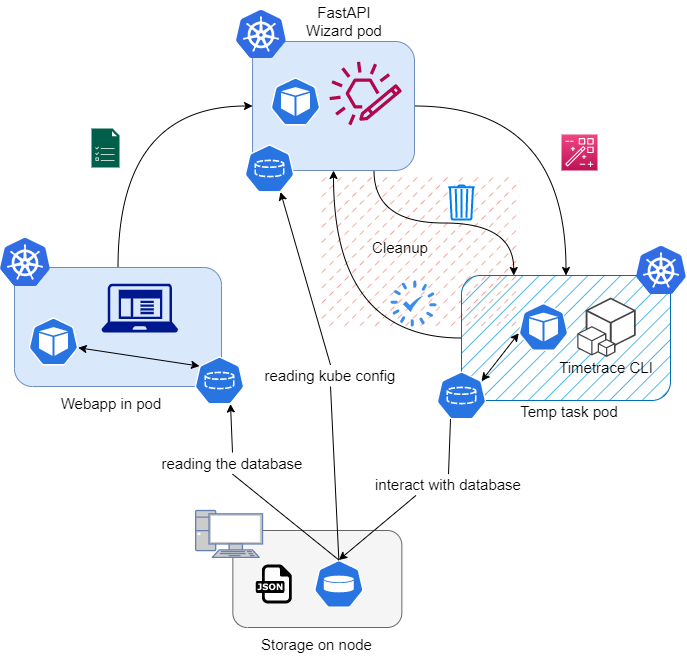
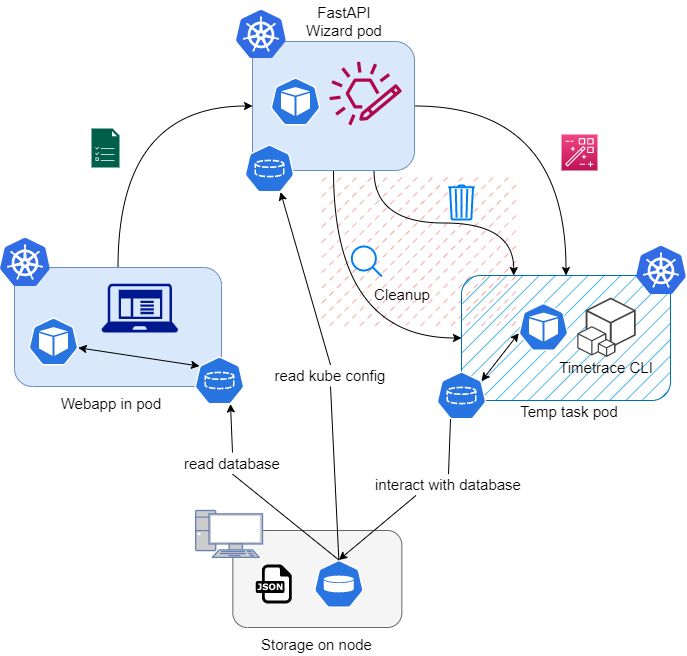
architecture schema fix

Changed region(s): [[0.4891, 0.3354, 0.6725, 0.5183], [0.3974, 0.5488, 0.5808, 0.5793], [0.2445, 0.7012, 0.4279, 0.7317]]

diff --git a/wizard/app.py b/wizard/app.py
@@ -1,6 +1,7 @@
 import subprocess
 import logging
 import yaml
+import time
 from fastapi import FastAPI, HTTPException
 from pydantic import BaseModel
 
@@ -24,42 +25,31 @@ async def creation(message: Message):
     if "create_pod," in message.text.lower():
         logging.info(f"Recieved following message: {message}")
         receipt = message.split(",")
-        #  collect deployment info to inject it in yaml file
-        #+ for sending the message after task complete
-        deployment_info = collect_deployment_info()
-        #  template yaml file update with received instructions and
-        #+ deployment info (service where FastAPI is listening)
-        inject_receipt_to_yaml(receipt[1:], deployment_info)
-        logging.info(f"Commands injected: {[receipt[i] for i in range(2,len(receipt))]}")
+        #  template yaml file update with received instructions 
+        inject_receipt_to_yaml(receipt[1:])
+        logging.info(f"Commands injected: {[receipt[i] for i in range(2,len(receipt))]} to start pod {receipt[1]}")
         # applying updated yaml template
         kubectl_apply()
-        logging.info(f"Pod {receipt[1]} created: {message}")
+        logging.info(f"Pod {receipt[1]} created!")
+        clean(receipt[1])
+        logging.info(f"Pod {receipt[1]} deleted!")
     else:
         # raise an exception for unknown messages
         raise HTTPException(status_code=400, detail="Unknown message")
 
-@app.post("/terminate_pod")
-async def termination(message: Message):
-    if "terminate_pod," in message.text.lower():
-        logging.info(f"Recieved following message: {message}")
-        # parsing pod name from message and calling delete method
-        kubectl_delete(message.split(",")[1])
-        logging.info(f"Pod {message.split(',')[1]} deleted")
-    else:
-        # raise an exception for unknown messages
-        raise HTTPException(status_code=400, detail="Unknown message")
+def clean(pod_name):
+    while True:
+        svc_raw = subprocess.check_output(["kubectl", "get", "pods"]).strip()
+        svc_str = svc_raw.decode("utf-8")
+        svc_list = [line.split() for line in svc_str.splitlines()]
+        target_list = [row for row in svc_list if row[0].startswith(pod_name)][0]
+        if target_list[2] == "Completed":
+            kubectl_delete(pod_name)
+            return
+        else:
+            time.sleep(60)
 
-def collect_deployment_info():
-    svc_raw = subprocess.check_output(["kubectl", "get", "services"]).strip()
-    svc_str = svc_raw.decode("utf-8")
-    svc_list = [line.split() for line in svc_str.splitlines()]
-    target_list = [row for row in svc_list if row[0].startswith("croner-wizard")][0]
-    #  needed information is cluster-ip and port so the service can send termination
-    #+ message after job is complete... returning ['cluster-ip', 'port_number']
-    logging.info(f"Application service {target_list[0]} can be accessed on {target_list[2]}:{target_list[2].split(':')[0].split('/')[0]}")
-    return [target_list[2], target_list[2].split(':')[0].split('/')[0]]
-
-def inject_receipt_to_yaml(receipt, deployment_info):
+def inject_receipt_to_yaml(receipt):
     with open("templates/temp_pod.yaml", "r") as f:
         yaml_template = f.read()
     # termination message to be sent after task is finished
@@ -68,10 +58,7 @@ def inject_receipt_to_yaml(receipt, deployment_info):
     # defining pod name
     yaml_dict['metadata']['name'] = receipt[0]
     # injection of commands that will run in pod
-    yaml_dict['spec']['containers'][0]['args'] = [
-                                                    " ".join(receipt[1:]), 
-                                                    f"curl -XPOST -d {message} {deployment_info[0]}:{deployment_info[1]}"
-                                                ]
+    yaml_dict['spec']['containers'][0]['args'] = [" ".join(receipt[1:])]
     # saving template so it can be applyed
     with open("templates/temp_pod.yaml", "w") as f:
        f.write(yaml.dump(yaml_dict))
